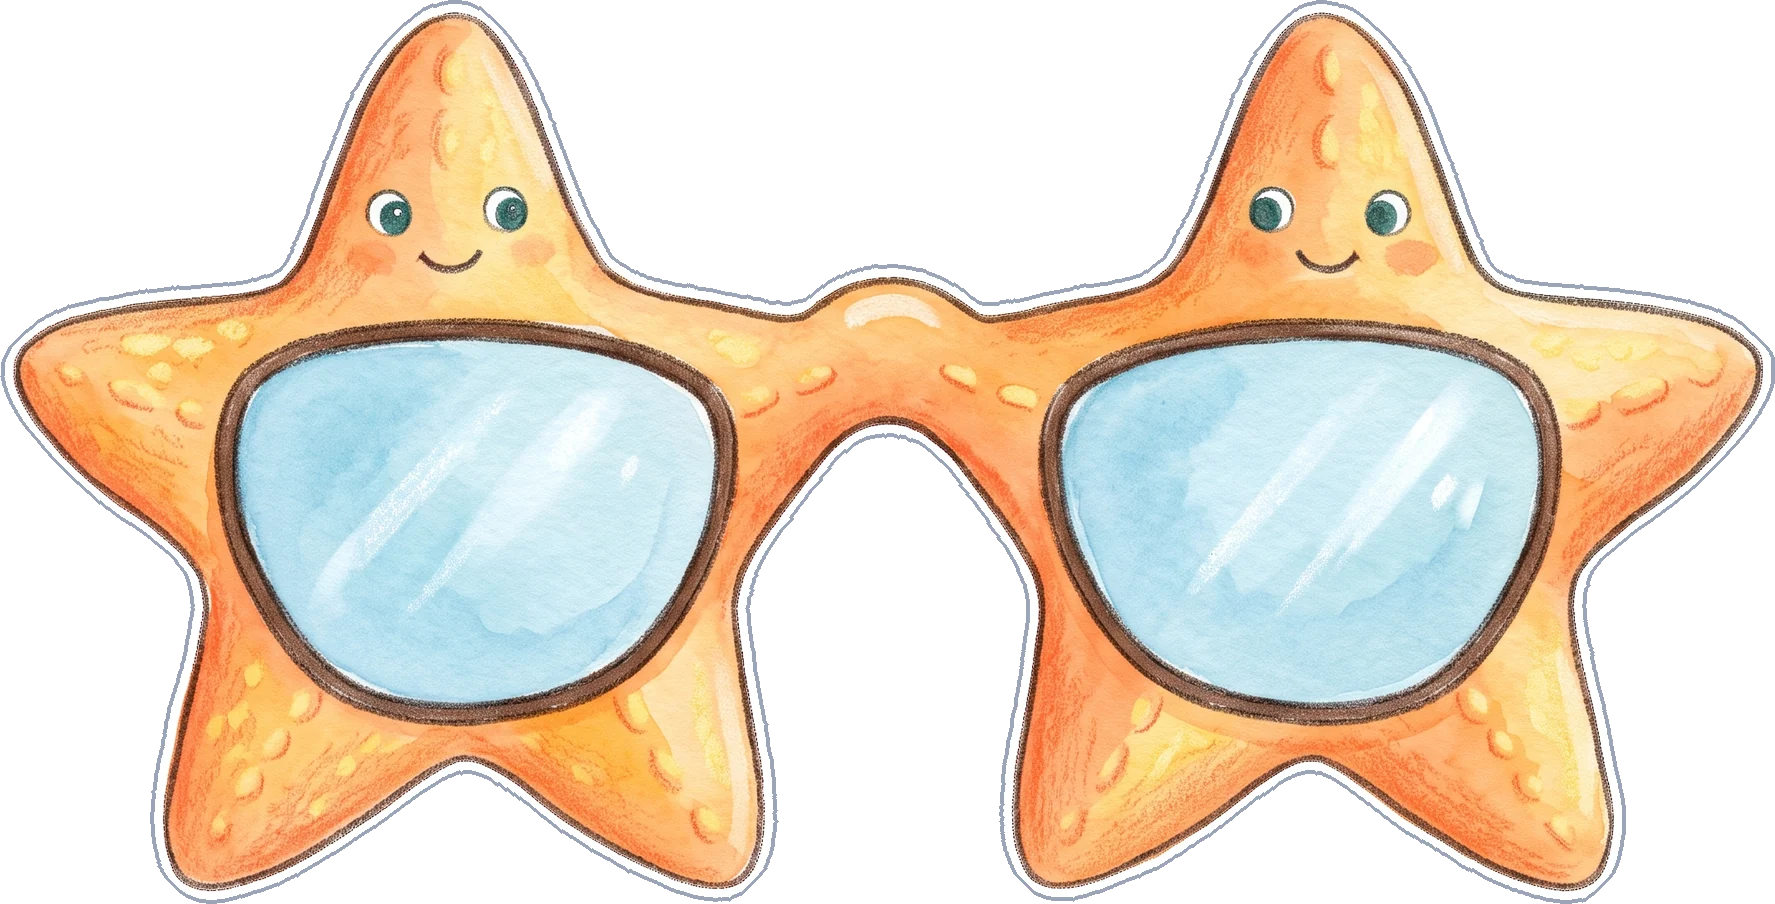
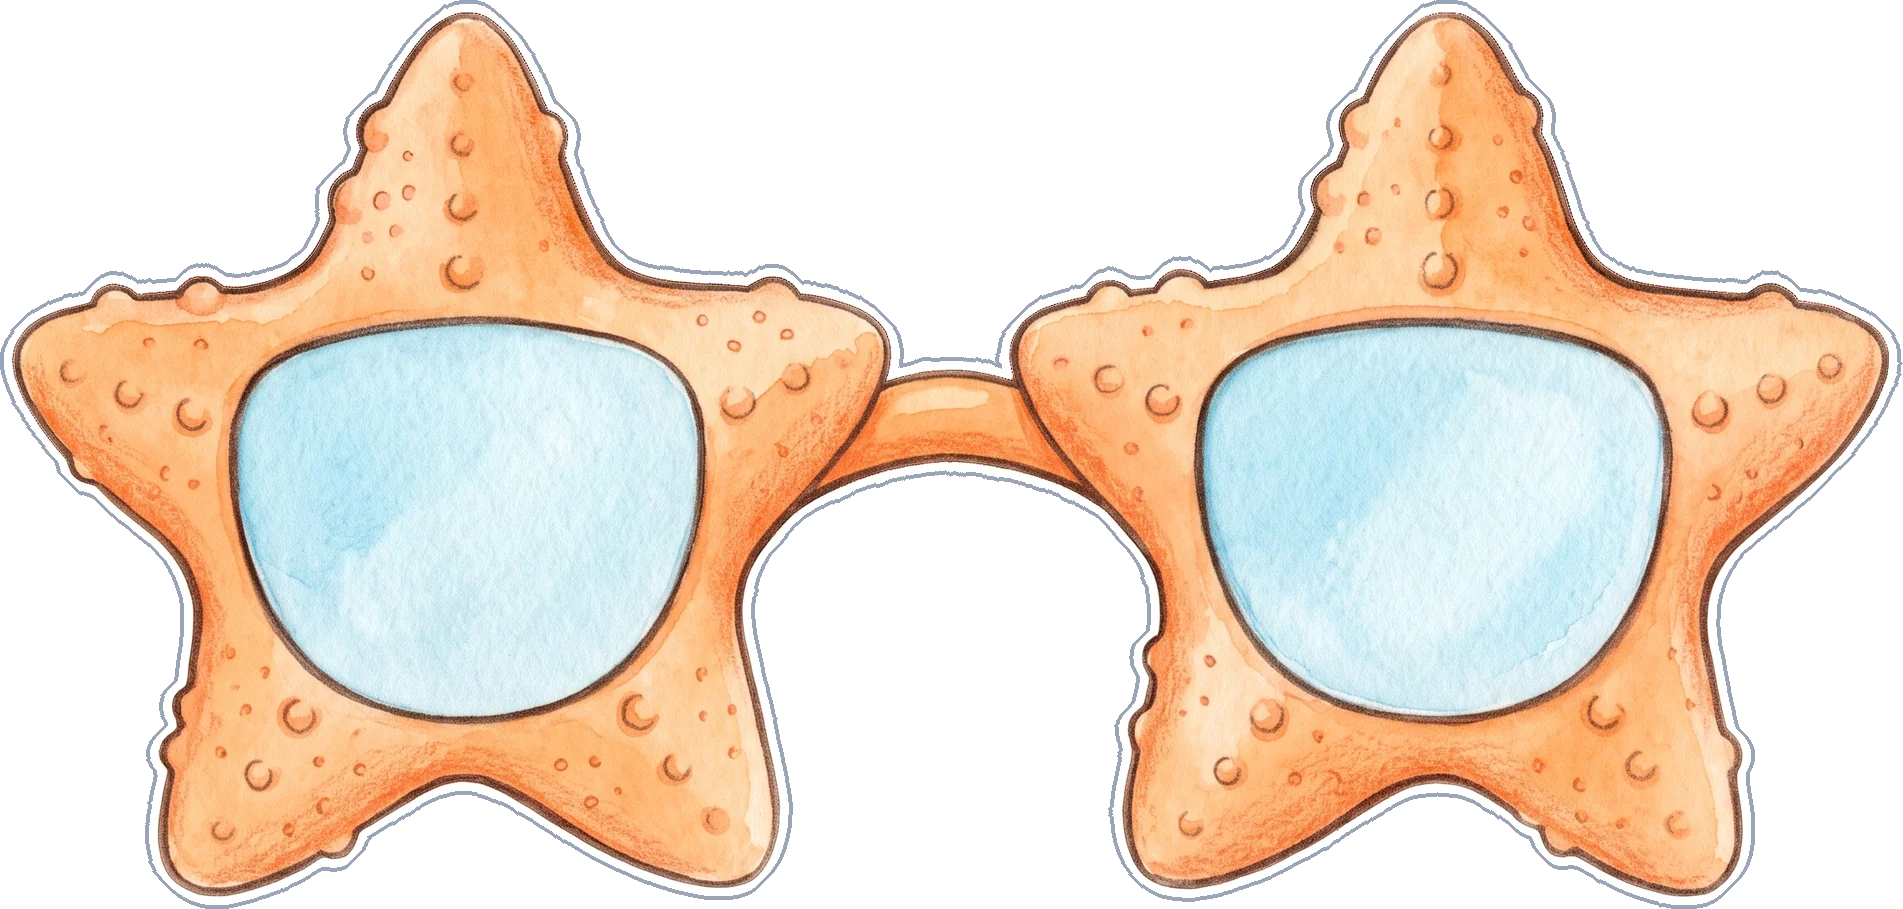
Disguises: starfish sunglasses without faces; prompts say no faces on objects
Claude-Session: https://claude.ai/code/session_013J2rTr944EnJ7QPXY68tdg

diff --git a/project-files/pretend-play/disguises/tools/prompts.py b/project-files/pretend-play/disguises/tools/prompts.py
@@ -3,8 +3,8 @@
 # Pro; flat props don't need Pro). id -> [(slot, aspect, prompt), ...]; slot 1 is worn on the
 # head (hat, ears), slot 2 on the face (glasses, mustache, nose). Pale props go on chroma green.
 STYLE = 'Children\'s storybook illustration in soft watercolor and colored pencil, warm and friendly, gentle dark outlines, bright cheerful colors, cute rounded shapes. A single cut-out photo booth prop, shown flat and straight from the front, life size for a child, '
-END = ' Only the one prop, no stick or handle, no person, no face, no hands. Isolated on a pure white background with a wide white margin. No text, no letters, no numbers, no logos, no cast shadow.'
-GREEN_END = ' Only the one prop, no stick or handle, no person, no face, no hands. Isolated on a solid flat pure chroma-key green (#00FF00) background with a wide margin. No green anywhere on the prop. No text, no letters, no numbers, no logos, no cast shadow.'
+END = ' Only the one prop, no stick or handle, no person, no face, no hands. Isolated on a pure white background with a wide white margin. No text, no letters, no numbers, no logos, no cast shadow. No faces, eyes or smiles on objects (starfish, food, stars, hearts).'
+GREEN_END = ' Only the one prop, no stick or handle, no person, no face, no hands. Isolated on a solid flat pure chroma-key green (#00FF00) background with a wide margin. No green anywhere on the prop. No text, no letters, no numbers, no logos, no cast shadow. No faces, eyes or smiles on objects (starfish, food, stars, hearts).'
 P = {
  'auto': [('1', '4:3', 'an orange mechanic\'s baseball cap with a little silver wrench patch on the front.'), ('2', '16:9', 'a thick brown handlebar mustache with curled tips and one small smudge of black grease.')],
  'burger': [('1', '16:9', 'a white folded paper diner hat (soda fountain style) with a red stripe along the bottom edge.'), ('2', '16:9', 'a big curly mustache colored mustard yellow, like it is made of mustard.')],
@@ -21,7 +21,7 @@ P = {
  'ice': [('1', '16:9', 'a sparkling icy blue tiara made of snowflakes and ice crystals.'), ('2', '16:9', 'a pair of glasses with icy blue frames shaped like two snowflakes.')],
  'italian': [('1', '3:4', 'a tall puffy white chef hat.'), ('2', '16:9', 'a black curly mustache with big round curls at the ends.')],
  'library': [('1', '4:3', 'a brown hair bun with two yellow pencils stuck through it.'), ('2', '16:9', 'a pair of big red cat-eye reading glasses with little sparkles on the corners.')],
- 'mermaid': [('1', '16:9', 'a mermaid tiara made of pink and gold seashells and white pearls.'), ('2', '16:9', 'a pair of sunglasses with two orange starfish as frames and light blue lenses.')],
+ 'mermaid': [('1', '16:9', 'a mermaid tiara made of pink and gold seashells and white pearls.'), ('2', '16:9', 'a pair of sunglasses with two plain orange starfish as frames (no faces on the starfish) and light blue lenses.')],
  'petshop': [('1', '16:9', 'a pair of floppy brown puppy ears on a brown headband.'), ('2', '16:9', 'a shiny black puppy nose with a pink tongue sticking out below it.')],
  'pirate': [('1', '16:9', 'a black pirate tricorn hat with gold trim and a small white skull and crossbones.'), ('2', '1:1', 'a bushy black pirate beard and mustache with an open gap for the mouth.')],
  'pizza': [('1', '4:3', 'a red pizza delivery cap with a little pizza slice patch on the front.'), ('2', '16:9', 'a pair of funny glasses whose two lenses are round pepperoni slices.')],

diff --git a/notes/PROJECT-NOTES.md b/notes/PROJECT-NOTES.md
@@ -37,6 +37,7 @@ Work that is about to merge or is mid-merge, so sessions on the other account ca
 - Don't pigeonhole the site as birthday-only; rotate occasions (rainy day, sleepover, snow day, Halloween, playdate, Christmas, Valentine's, Easter, weekend).
 - Keep the site calm (2026-10-23, from Jason's wife: the old one-page site felt like "a lot coming at her"). One idea per section, short copy, ordering on its own page. Never drop a feature to get there (name previews, hero banners, order stack, galleries): move it instead.
 - Photos: pieces must be cut to shape and used as the real thing, staged "like an Instagram mom, just perfect". DIY cardboard builds sell best. Never glue cut-and-assemble activity pages (lift-flap vet bag, cauldron) flat onto boxes; use signs, labels and cards on boxes instead.
+- Generated images: no faces on objects (no smiley stars, food, starfish...). Every Gemini prompt should say so (Jason, 2026-10-24). Face props that are meant to be worn as a mouth or nose (the disguises' grins, lips, kitty nose) are fine.
 - Jason runs paste-into-Gemini-app prompts himself for some image work (no API).
 - Jason raises the Gemini spend cap himself at ai.studio/spend when it hits the monthly cap (HTTP 429 "exceeded its monthly spending cap").
 
